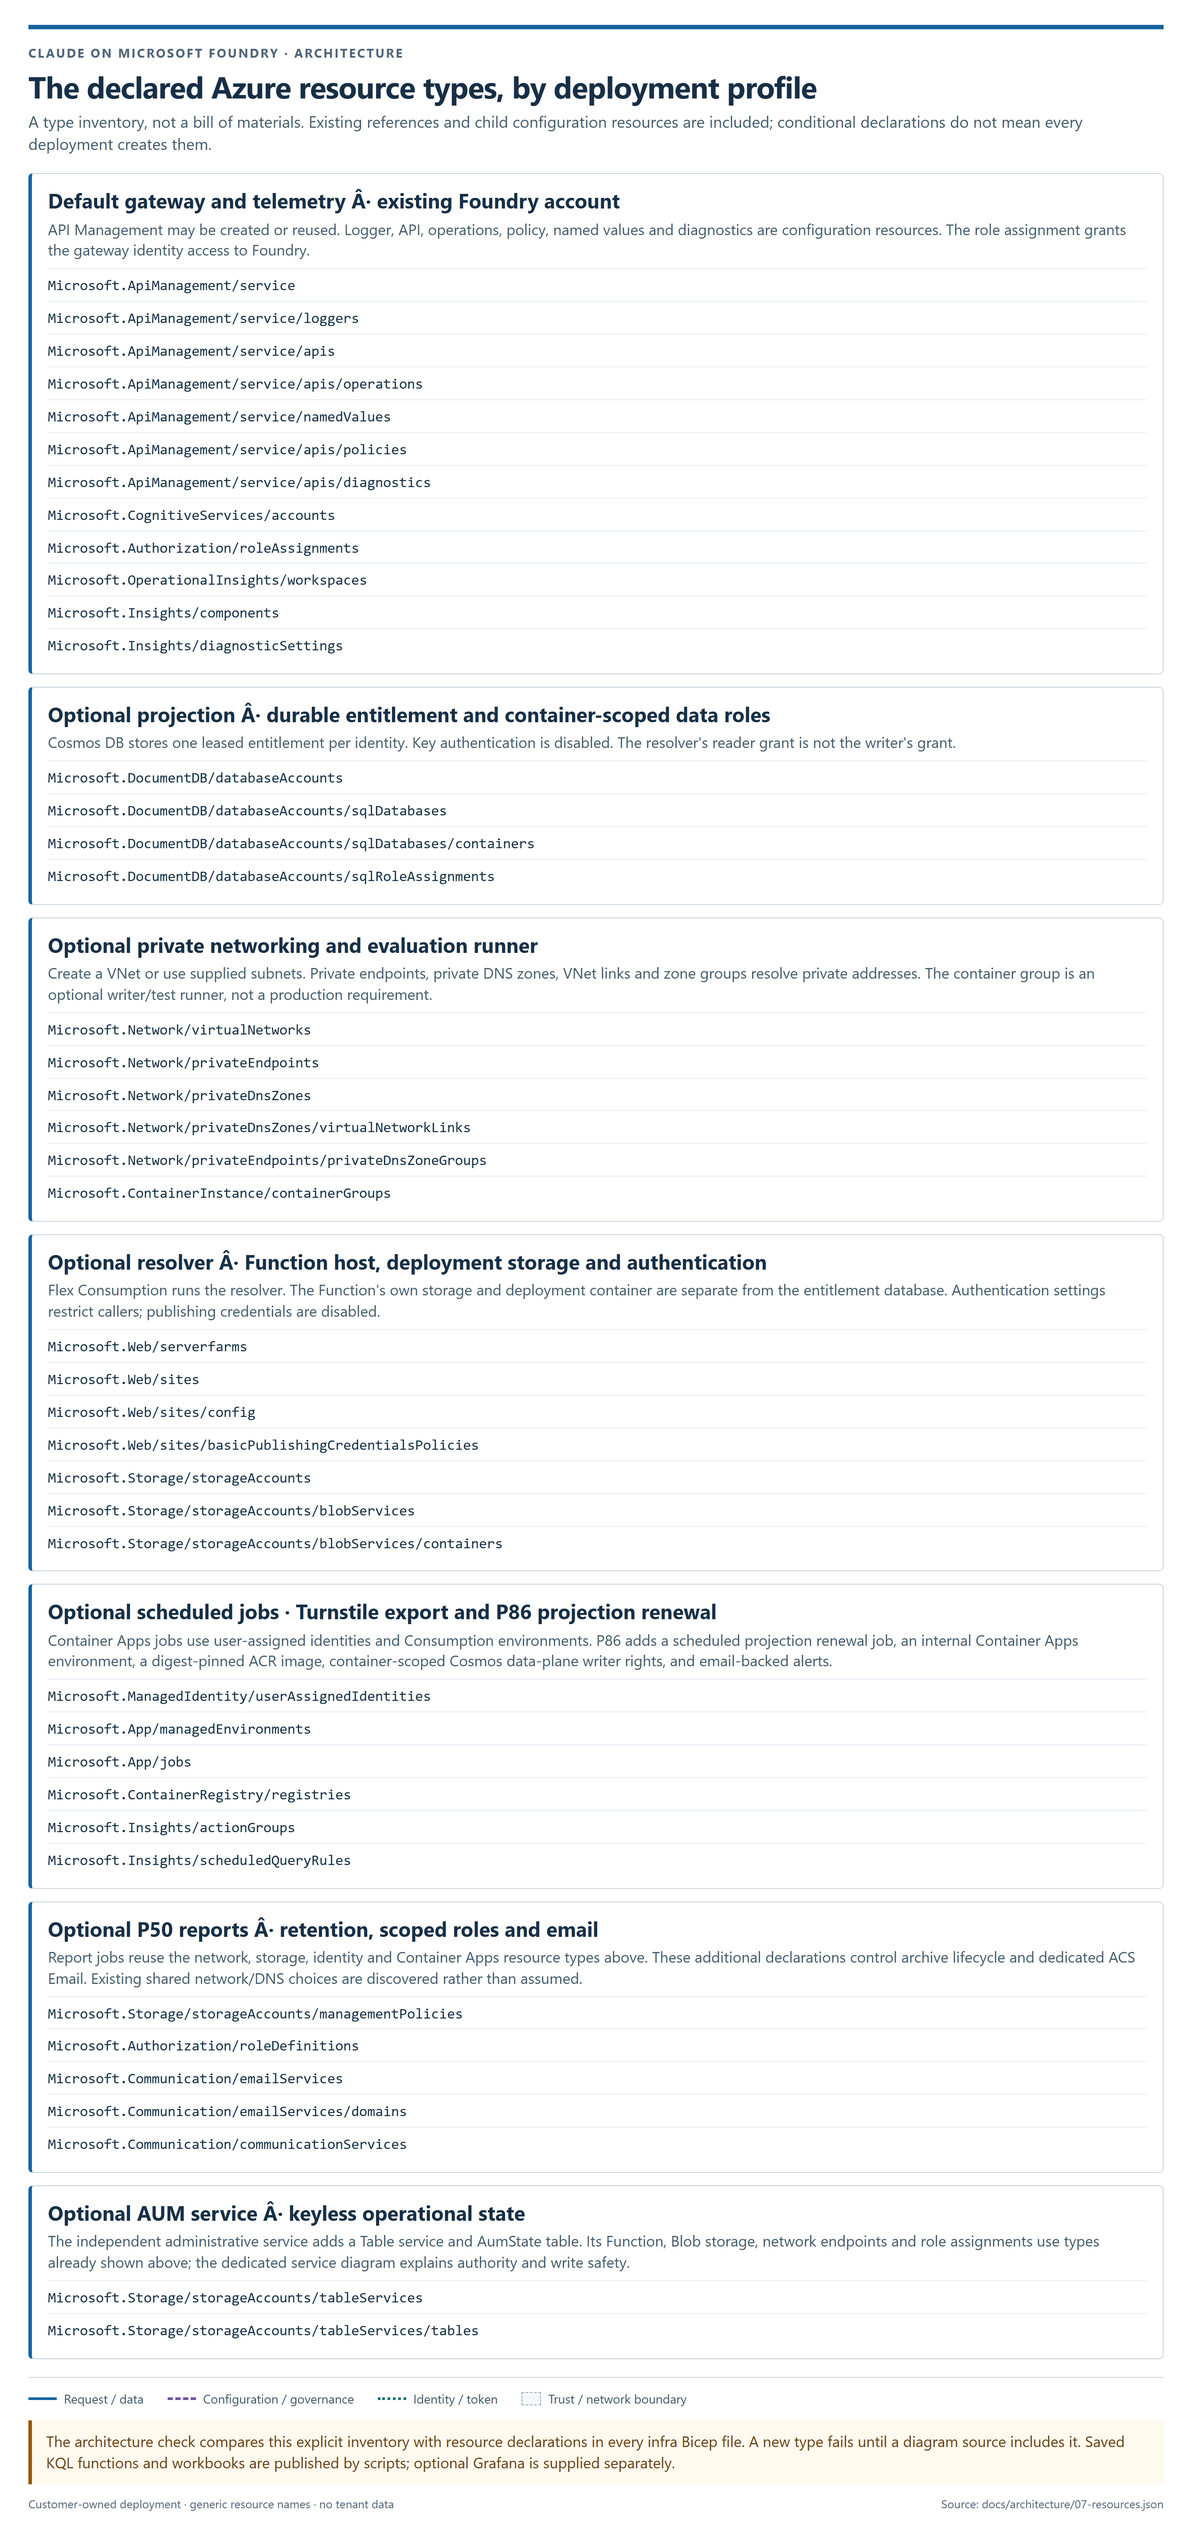
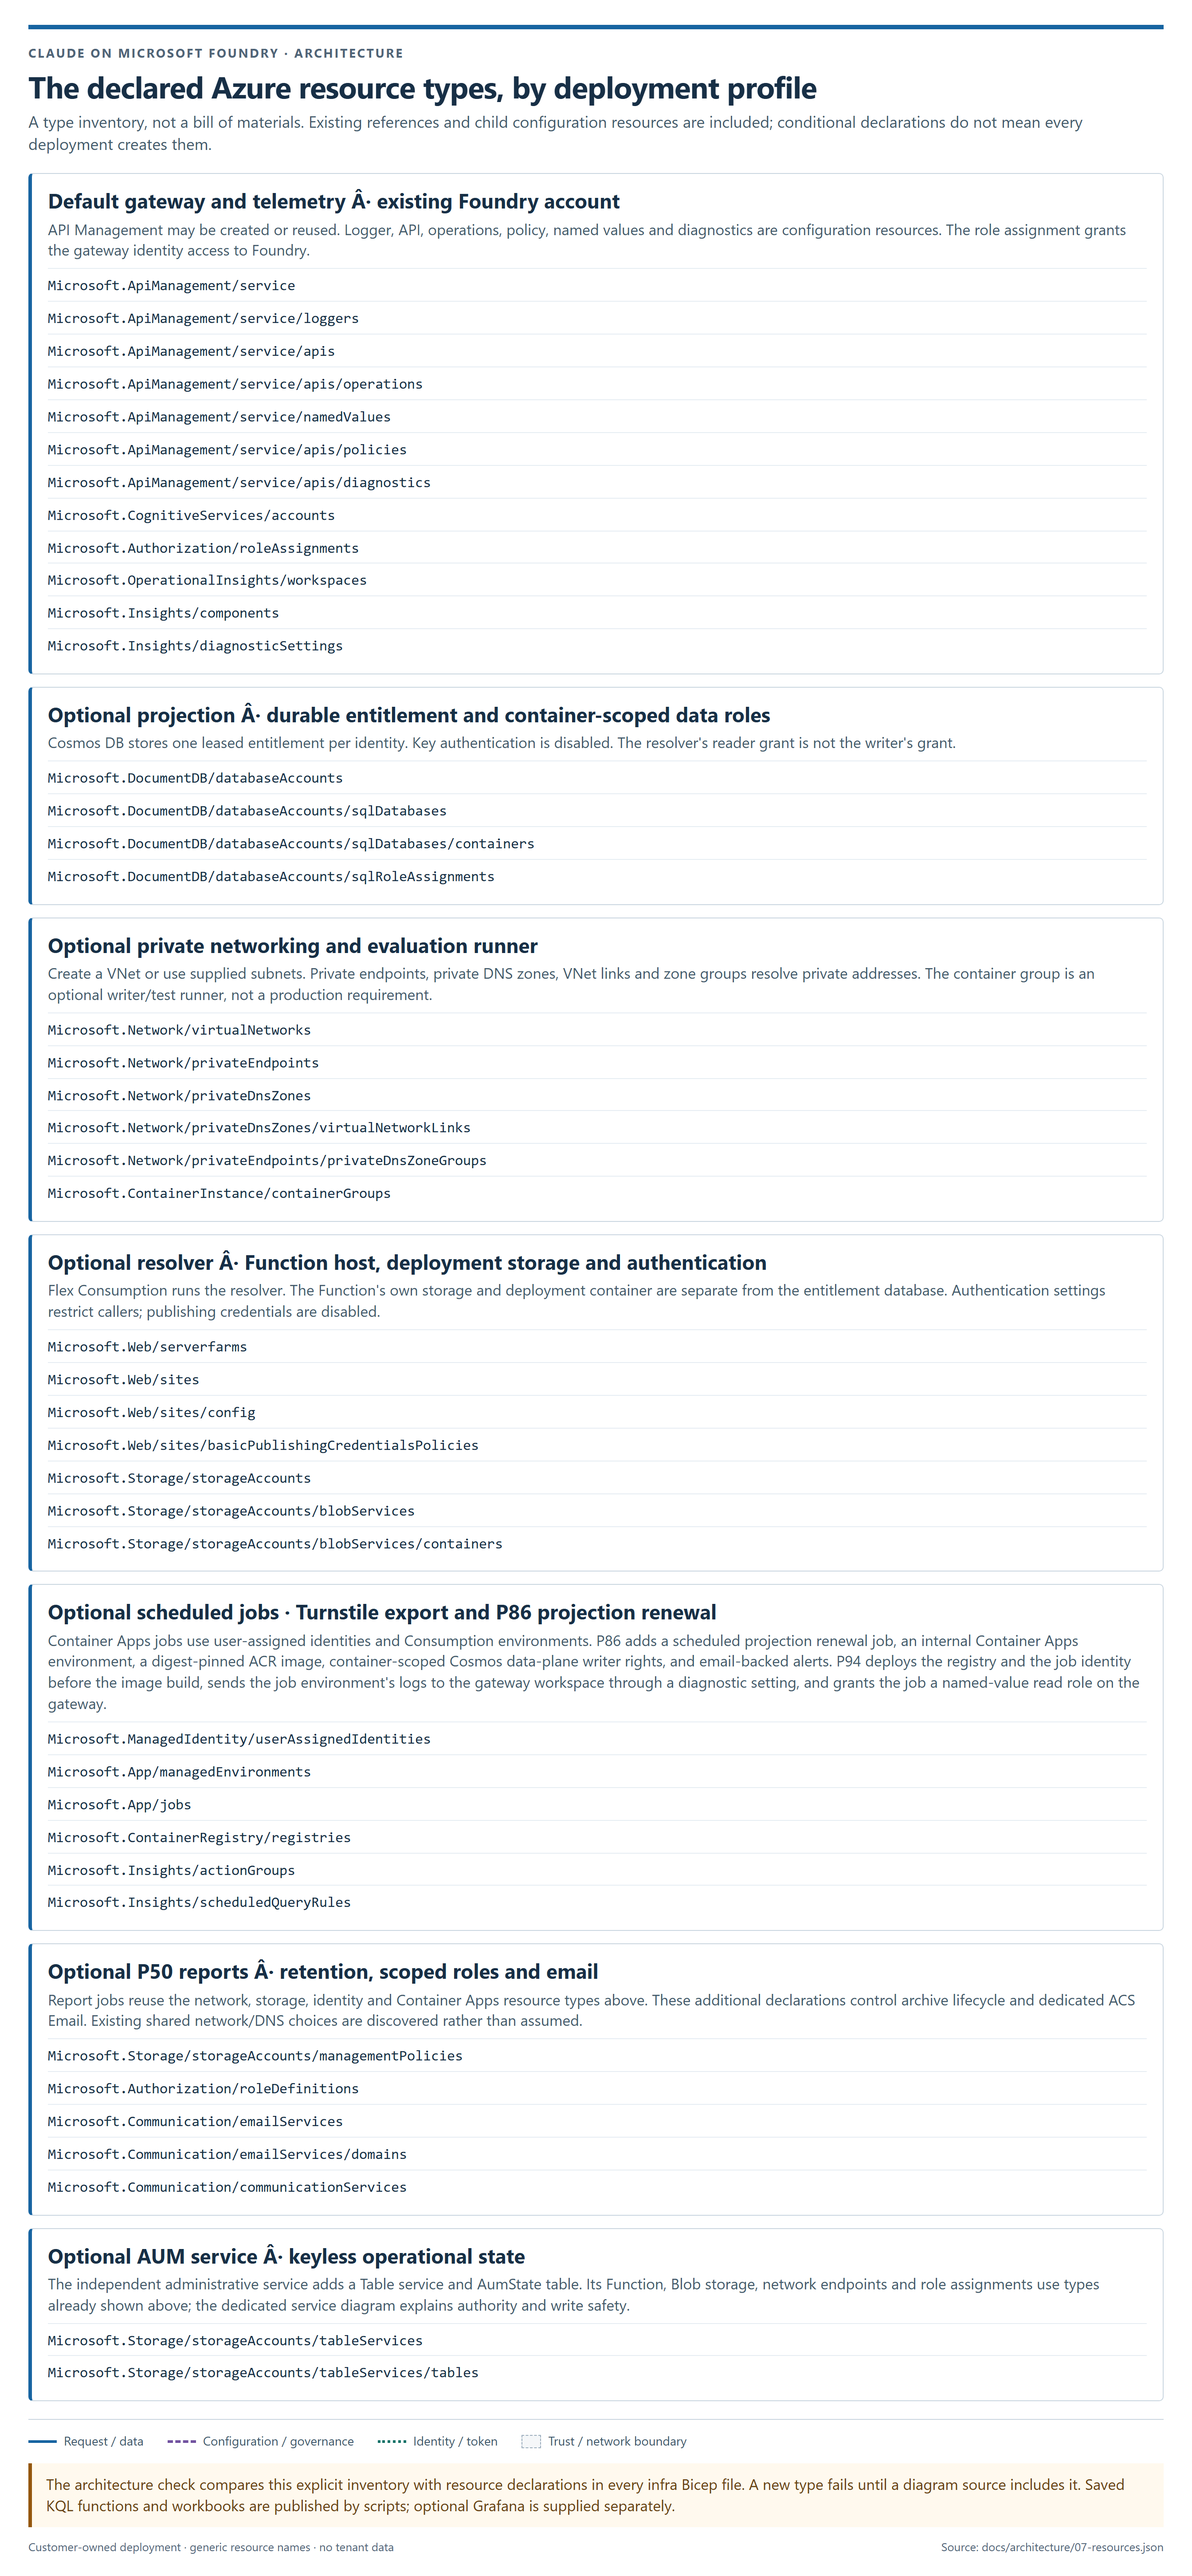
docs(architecture): show how the renewal job deploys
The projection diagram and the resource inventory described the P86
renewal template as creating its own registry and identity, and named
no deploy step, named-value read or log route.

The projection diagram's renewal node now shows the deploy script's
three phases, the registry template, the named-value reader role, the
bu-registry read, the diagnostic setting and the alerts; the inventory
note and ARCHITECTURE.md describe P94. node guide/render-architecture.mjs
regenerated the two changed pictures and the manifest; the other
pictures are byte-identical. Test-Architecture.ps1 passes 36 assertions.

Copilot-Session: aee52ac6-1314-40f4-9675-e225529db617

diff --git a/docs/ARCHITECTURE.md b/docs/ARCHITECTURE.md
@@ -434,12 +434,21 @@ failed-to-delete orphans do not receive a new lease. A partial write can leave m
 generations, each with its own expiry, and exits nonzero.
 
 P86 adds the scheduled renewal path in `infra/projection-renewal.bicep`. It declares an
-ACR registry, an internal Container Apps environment, a scheduled Container Apps job, a
-user-assigned identity, a container-scoped Cosmos SQL data-plane writer role, an email-backed
-action group and scheduled-query alerts. The job writes destination-bound status records in
-the entitlement container. Switch admission reads those records through
-`sync/src/check-admission.mjs` and also checks that the ARM job uses the tested pinned image
-without command or args overrides.
+internal Container Apps environment, a scheduled Container Apps job, a container-scoped Cosmos
+SQL data-plane writer role, an email-backed action group and scheduled-query alerts. The job
+writes destination-bound status records in the entitlement container. Switch admission reads
+those records through `sync/src/check-admission.mjs` and also checks that the ARM job uses the
+tested pinned image without command or args overrides.
+
+P94 makes that path deployable ([ADR-0049](adr/0049-projection-renewal-deployment.md)).
+`scripts/Deploy-ClaudeProjectionRenewal.ps1` deploys `infra/projection-registry.bicep` (the ACR
+registry, the job's user-assigned identity and its AcrPull grant) before the image build, then
+the renewal template with the registry and identity as existing resources. The job runs on the
+`renewal` subnet of `infra/projection-network.bicep`, sends its console lines to the gateway's
+Log Analytics workspace through a diagnostic setting, and reads `bu-registry` and `bu-parents`
+on every run through a named-value read role that `infra/projection-renewal-gateway-reader.bicep`
+grants at the gateway's resource group. The image and the in-network runner use one sync package
+that includes `resolver/src/entitlement.mjs`.
 
 Before a resolver call, APIM limits `entitlement-misses` to 200 per second and 100
 concurrent. Excess returns retryable 429. These approximate distributed controls bound
